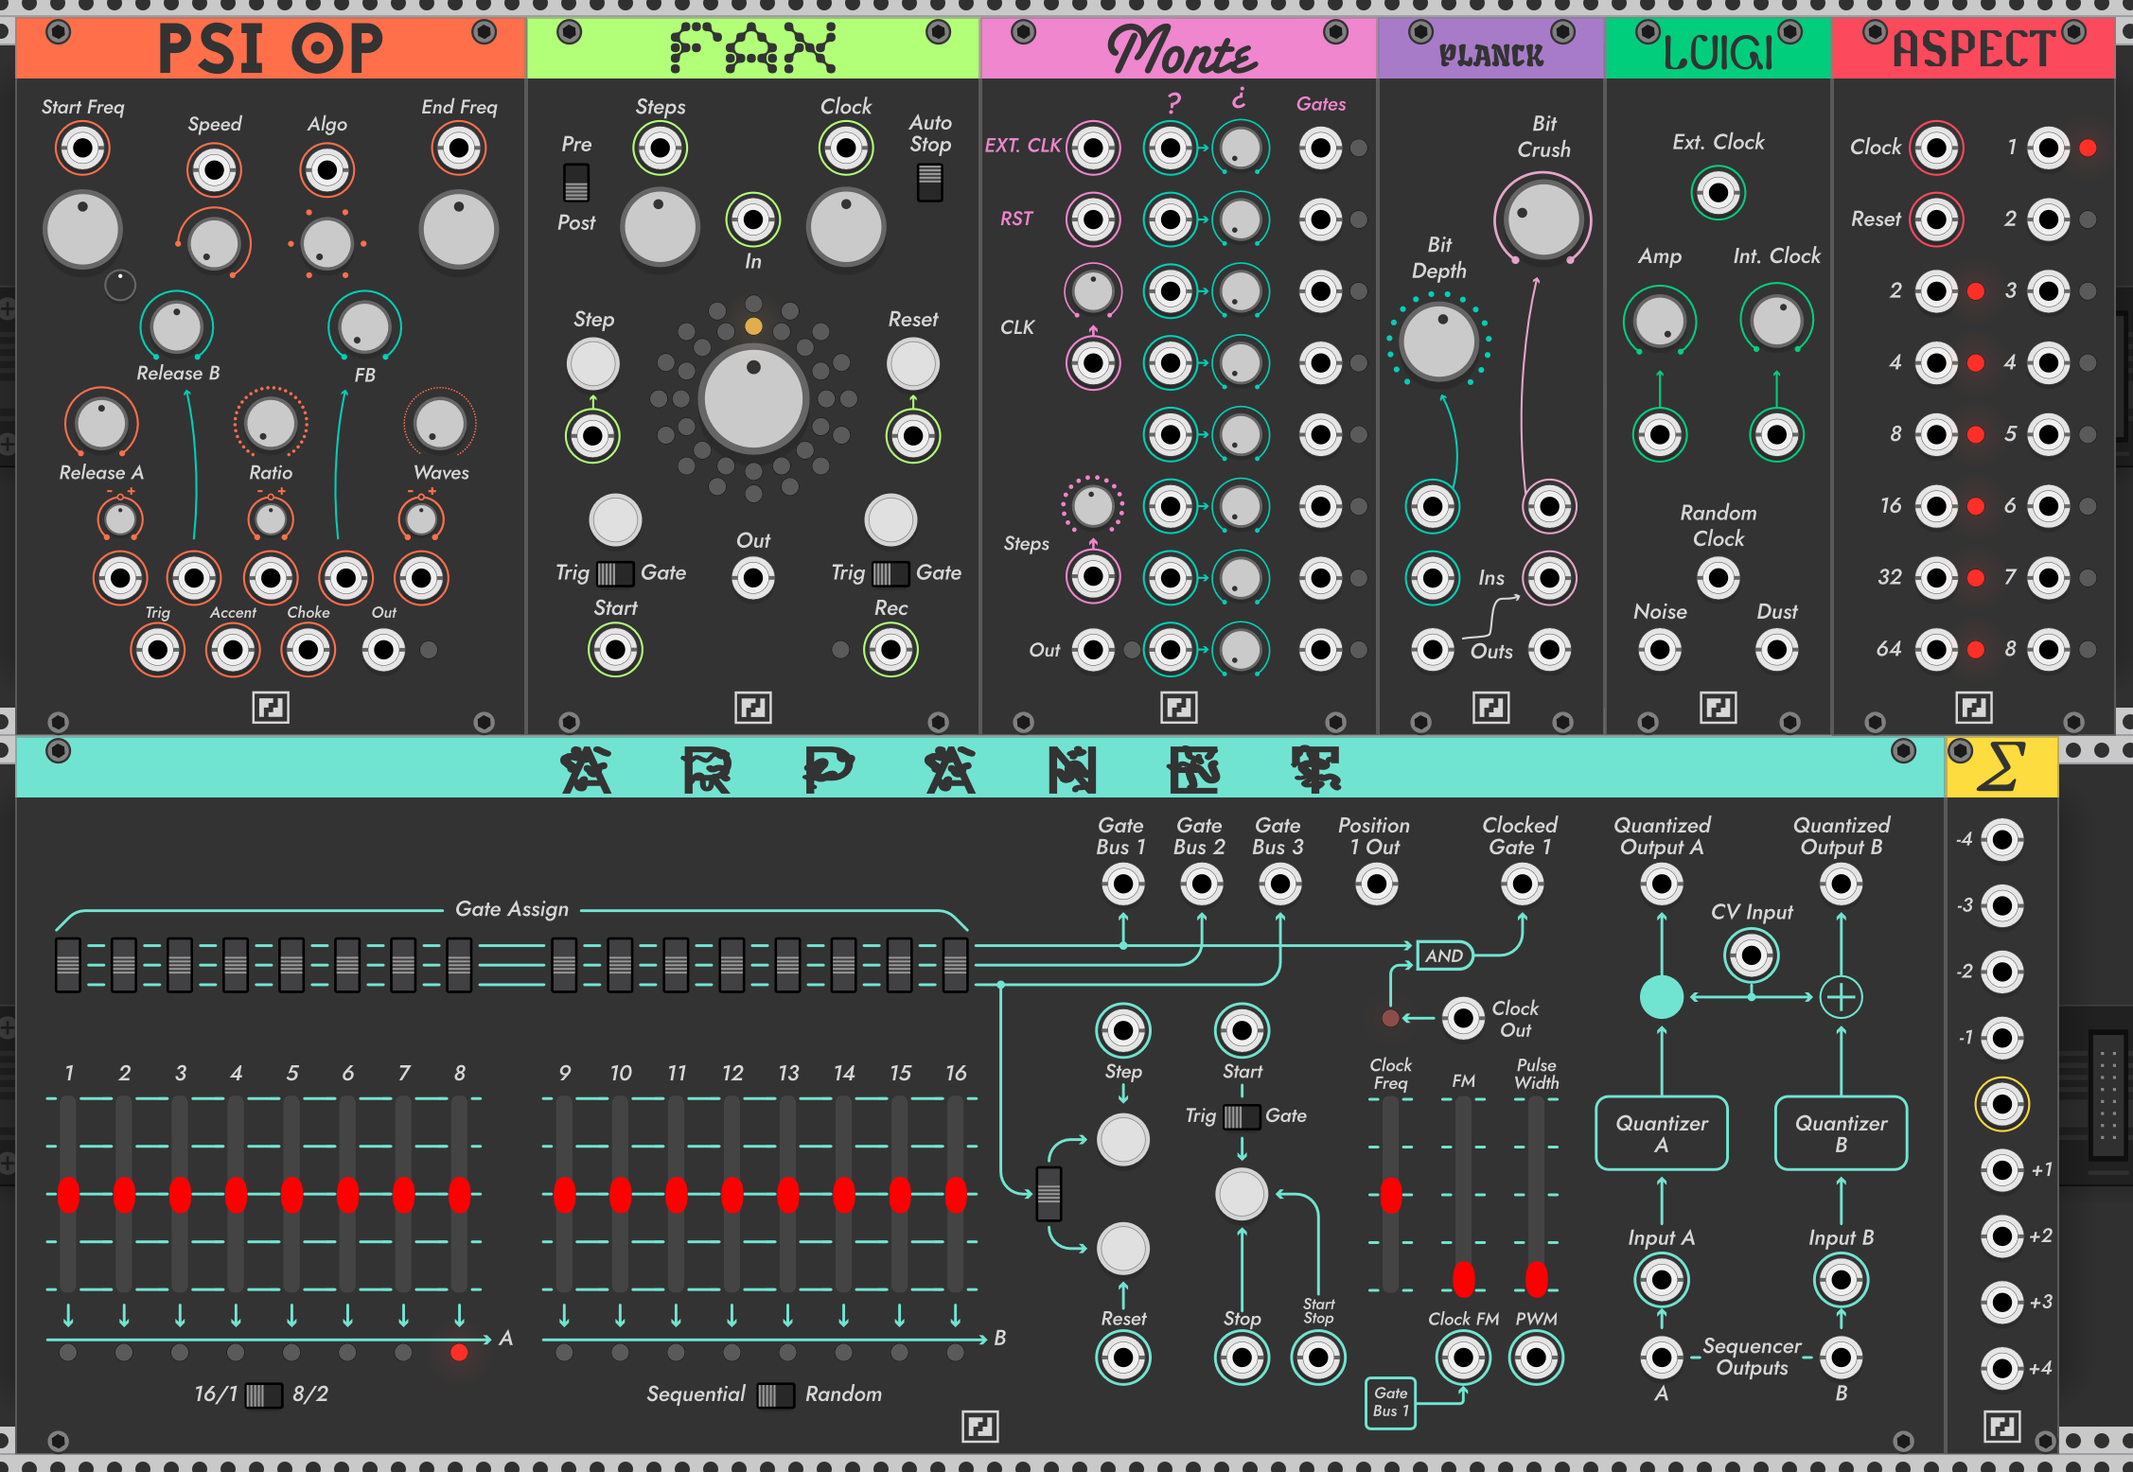
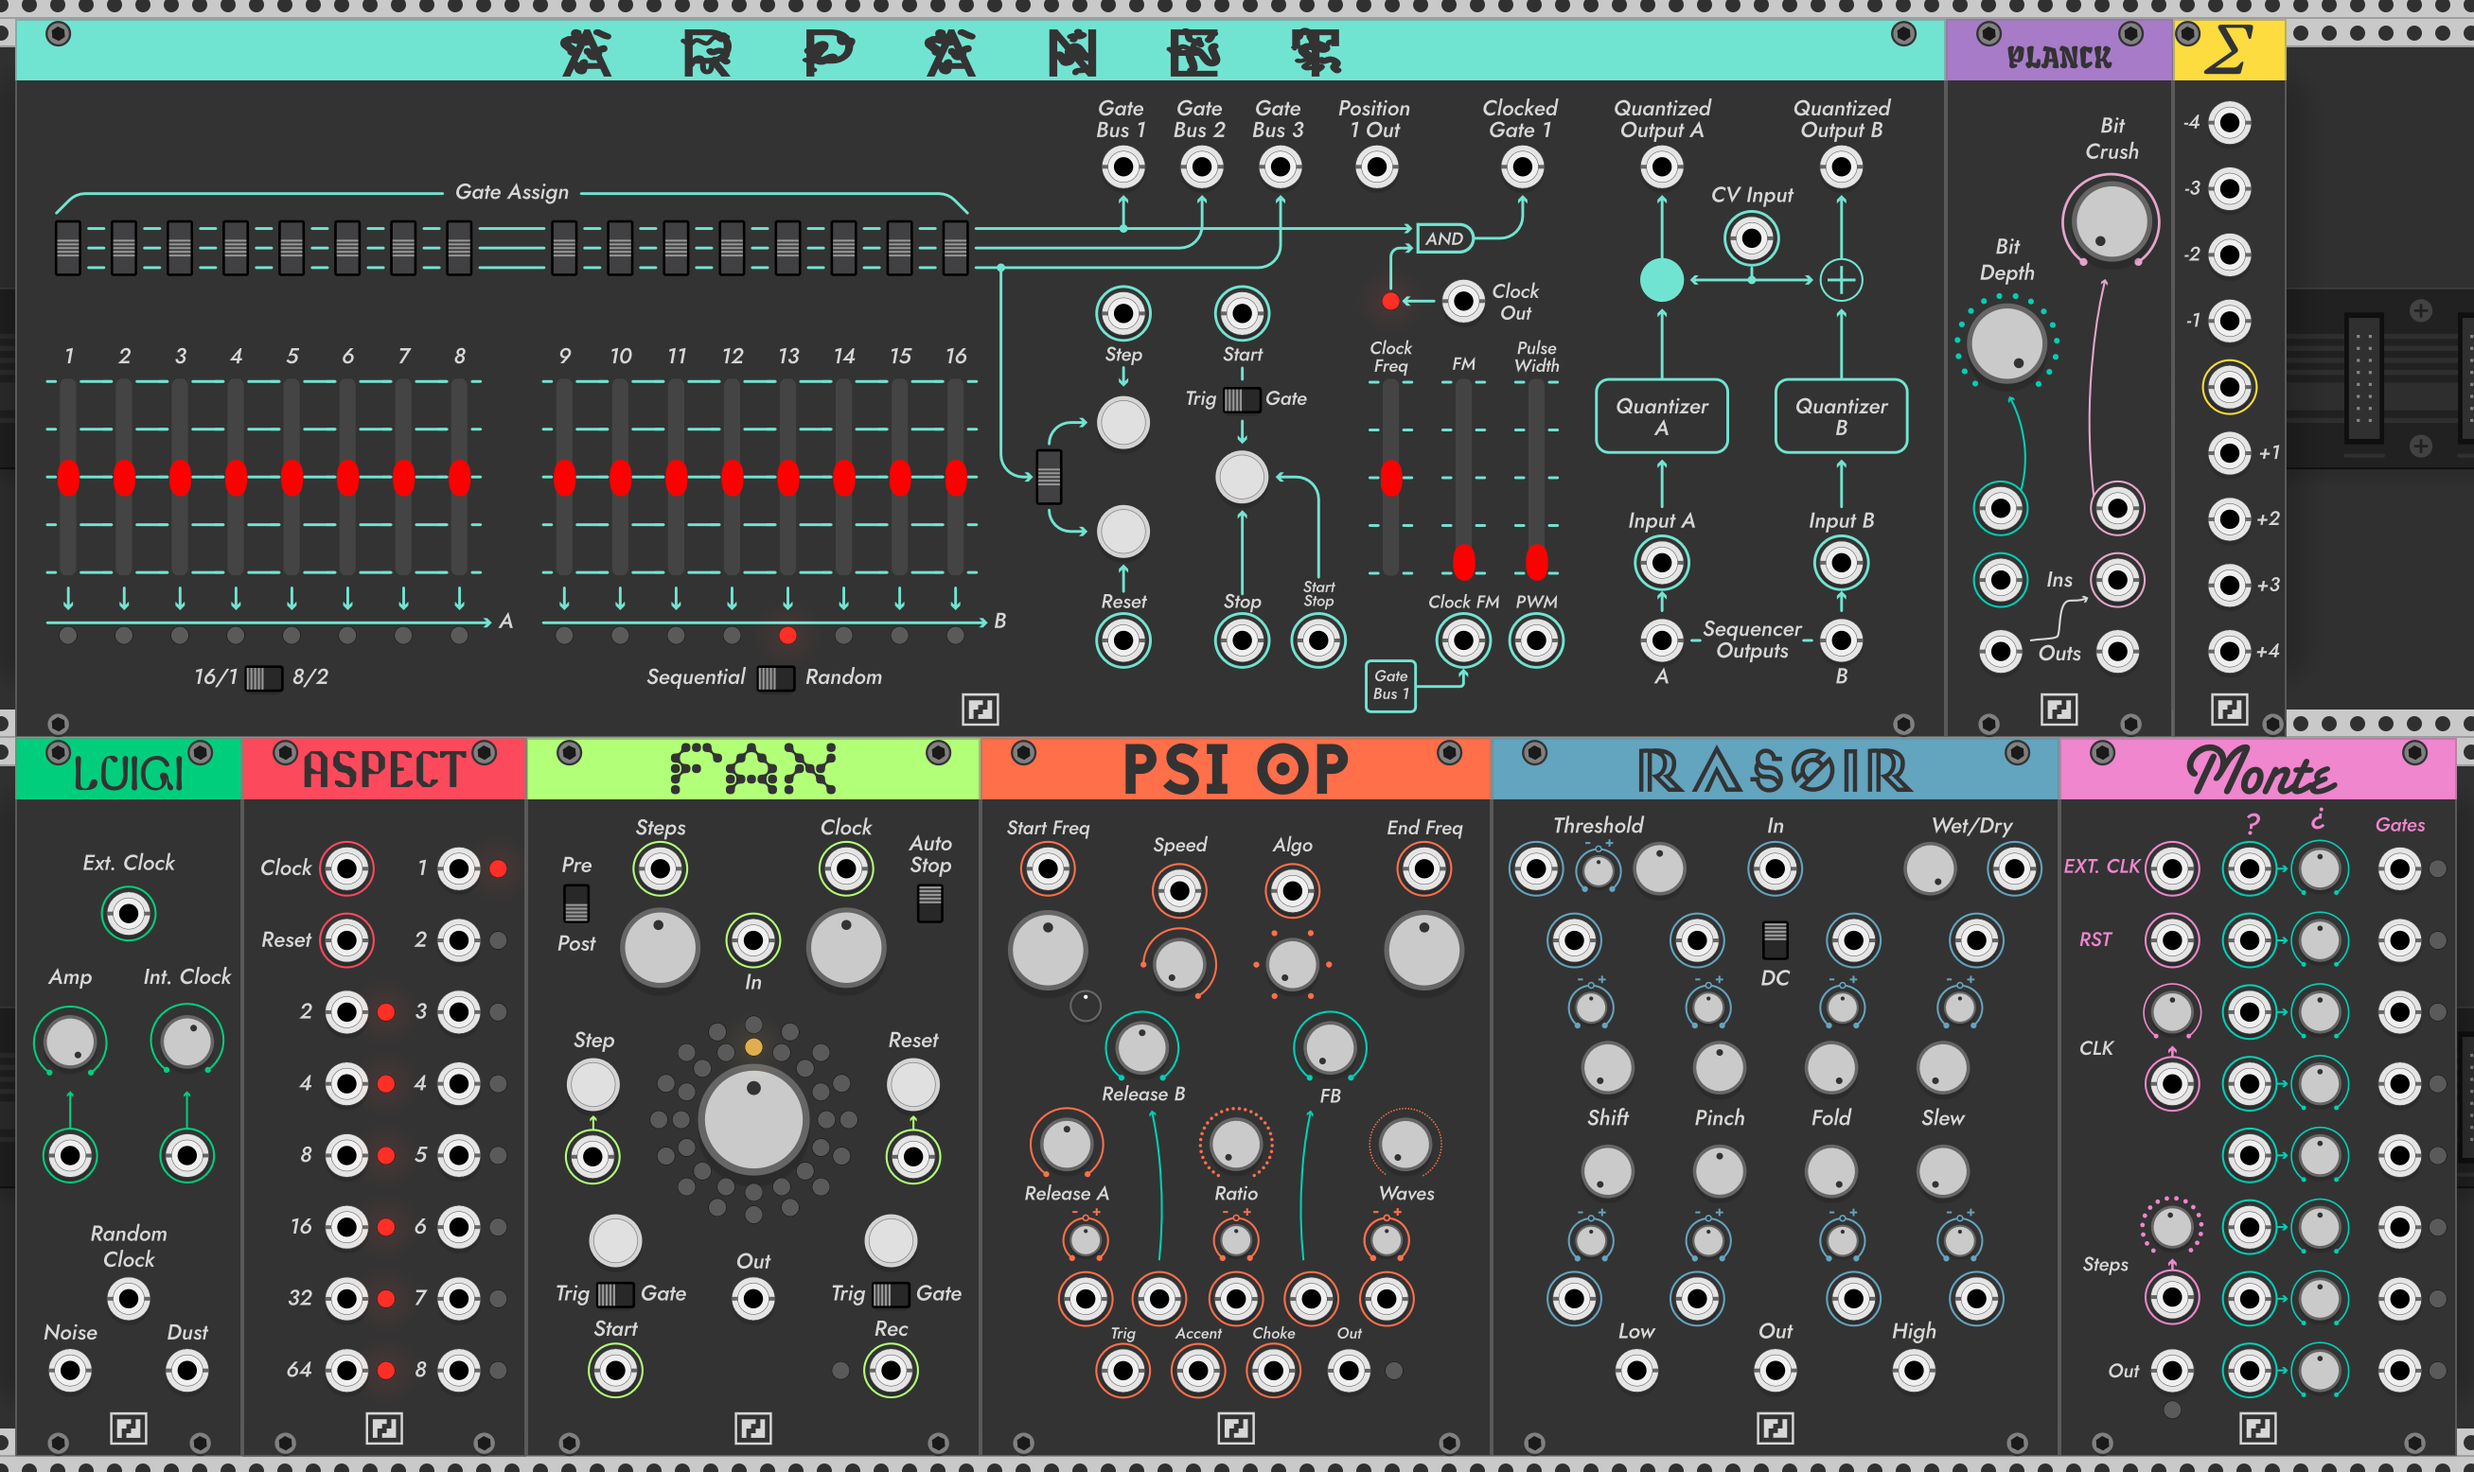
readme

diff --git a/README.md b/README.md
@@ -64,6 +64,8 @@ The opal wavetable used in PSI OP is taken from [ValleyRack](https://github.com/
 
 Rasoir is an asymmetrical voltage processor. It's based on the the types of distortion found in modules like [Autodafe's FoldBack](https://github.com/antoniograzioli/Autodafe/blob/master/src/FoldBack.cpp) and [HetrickCV's Waveshape](https://github.com/mhetrick/hetrickcv/blob/master/src/Waveshape.cpp). What makes Rasoir unique is it's ability to slice a waveform into two components that lie above or below a threshold voltage and process those components seperately. Both high and low components can be shifted in time, clipped, pinched, folded and slewed. The top row of controls and jacks affects the high component, and the lower row the low component. Each component has it's own output, and they're combined on the main output. The main output also has dry/wet control and a DC offset filter.
 
+See [here](https://www.youtube.com/watch?v=nh-8XyOFzqo&feature=youtu.be) for a demo
+
 ## Sigma
 
 ![Image of Sigma](https://github.com/RCameron93/FehlerFabrik/blob/master/docs/images/FFSigma.png)
